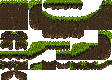
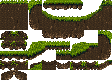
Refactor MainMenu and Characters logic for draw condition handling and menu item selection

Changed region(s): [[0.0, 0.5, 0.2679, 0.625]]

diff --git a/src/scene/game/menu/MainMenu.js b/src/scene/game/menu/MainMenu.js
@@ -24,7 +24,6 @@ TerraTactics.scene.MainMenu = function () {
      */
 
     rune.scene.Scene.call(this);
-
 };
 
 //------------------------------------------------------------------------------
@@ -50,46 +49,37 @@ TerraTactics.scene.MainMenu.prototype.init = function () {
     this.bg = new rune.display.Graphic(0, 0, 400, 225, "background");
     this.stage.addChild(this.bg);
 
-    this.PlayGame = new rune.display.Sprite(160, 60, 96, 96, "Selectedplaygame");
-    this.stage.addChild(this.PlayGame);
+    this.m_player1Controls = new TerraTactics.util.Controls(0);
+    this.m_player2Controls = new TerraTactics.util.Controls(1);
 
-    this.ExitGame = new rune.display.Sprite(160, 110, 96, 96, "ExitGame");
-    this.stage.addChild(this.ExitGame);
+    this.playGame = new rune.display.Sprite(160, 80, 96, 96, "Selectedplaygame");
+    this.exitGame = new rune.display.Sprite(160, 130, 96, 96, "ExitGame");
 
+    this.playGame.animation.create("idle", [0], 1, true);
+    this.exitGame.animation.create("idle", [0], 1, true);
 
-    // group of menu items (controller/keyboard navigation)
-    this.m_menuItems = [this.PlayGame, this.ExitGame];
+    this.playGame.animation.create("selected", [1, 2], 6, true);
+    this.exitGame.animation.create("selected", [1, 2], 6, true);
 
-    // controls (keyboard / gamepad)
-    this.m_controls = new TerraTactics.util.Controls(0);
+    this.playGame.isSelected = false;
+    this.exitGame.isSelected = false;
 
-    // selection index for keyboard/gamepad navigation
+    this.stage.addChild(this.playGame);
+    this.stage.addChild(this.exitGame);
+
     this.m_selectedIndex = 0;
-    this.m_updateSelection = function () {
-        for (var i = 0; i < this.m_menuItems.length; i++) {
-            var it = this.m_menuItems[i];
-            if (!it) continue;
-            if (i === this.m_selectedIndex) {
-                if (typeof it.m_selected === 'function') {
-                    it.m_selected(true);
-                } else {
-                    it.scaleX = 1.05;
-                    it.scaleY = 1.05;
-                    it.alpha = 1.0;
-                }
-            } else {
-                if (typeof it.m_selected === 'function') {
-                    it.m_selected(false);
-                } else {
-                    it.scaleX = 1.0;
-                    it.scaleY = 1.0;
-                    it.alpha = 0.7;
-                }
-            }
-        }
-    }.bind(this);
-
+    this.m_menuItems = [this.playGame, this.exitGame];
     this.m_updateSelection();
+};
+
+TerraTactics.scene.MainMenu.prototype.m_updateSelection = function () {
+    this.m_menuItems.forEach(function (item) {
+        if (item === this.m_menuItems[this.m_selectedIndex]) {
+            item.animation.gotoAndPlay("selected");
+        } else {
+            item.animation.gotoAndPlay("idle");
+        }
+    }, this);
 };
 
 /**
@@ -103,11 +93,7 @@ TerraTactics.scene.MainMenu.prototype.init = function () {
 TerraTactics.scene.MainMenu.prototype.update = function (step) {
     rune.scene.Scene.prototype.update.call(this, step);
 
-    if (!this.m_controls) {
-        this.m_controls = new TerraTactics.util.Controls(0);
-    }
-
-    if (this.m_controls.justUp) {
+    if (this.m_player1Controls.justUp || this.m_player2Controls.justUp) {
         this.m_selectedIndex -= 1;
         if (this.m_selectedIndex < 0) {
             this.m_selectedIndex = this.m_menuItems.length - 1;
@@ -115,19 +101,19 @@ TerraTactics.scene.MainMenu.prototype.update = function (step) {
         this.m_updateSelection();
     }
 
-    if (this.m_controls.justDown) {
+    if (this.m_player1Controls.justDown || this.m_player2Controls.justDown) {
         this.m_selectedIndex += 1;
         if (this.m_selectedIndex >= this.m_menuItems.length) {
             this.m_selectedIndex = 0;
         }
         this.m_updateSelection();
     }
-
-    if (this.m_controls.confirm) {
-        var sel = this.m_menuItems[this.m_selectedIndex];
-        if (sel === this.PlayGame) {
+    if (this.m_player1Controls.confirm || this.m_player2Controls.confirm) {
+        if (this.m_selectedIndex === 0) {
             this.application.scenes.load([new TerraTactics.scene.ControllerMenu()]);
-        } else if (sel === this.ExitGame) {
+        }
+
+        if (this.m_selectedIndex === 1) {
             try {
                 window.close();
             } catch (err) {
@@ -146,9 +132,5 @@ TerraTactics.scene.MainMenu.prototype.update = function (step) {
  * @returns {undefined}
  */
 TerraTactics.scene.MainMenu.prototype.dispose = function () {
-    this.m_menuItems = null;
-    this.m_updateSelection = null;
-    this.m_controls = null;
-
     rune.scene.Scene.prototype.dispose.call(this);
 };

diff --git a/src/scene/game/character/Characters.js b/src/scene/game/character/Characters.js
@@ -110,6 +110,10 @@ TerraTactics.scene.Characters.prototype.m_playJumpSound = function () {
 
 TerraTactics.scene.Characters.prototype.m_setWinnerText = function (playerEntry) {
     // we need to send the player that won, not died.
+    if (playerEntry === "Draw" || playerEntry === "DRAW" || playerEntry === null) {
+        this.m_winnerText = "Draw";
+        return;
+    }
 
     switch (playerEntry.id) {
         case "player1":
@@ -117,12 +121,6 @@ TerraTactics.scene.Characters.prototype.m_setWinnerText = function (playerEntry)
             break;
         case "player2":
             this.m_winnerText = "Player 2 Wins!";
-            break;
-        case "player3":
-            this.m_winnerText = "Player 3 Wins!";
-            break;
-        case "draw":
-            this.m_winnerText = "Draw!";
             break;
         default:
             break;
